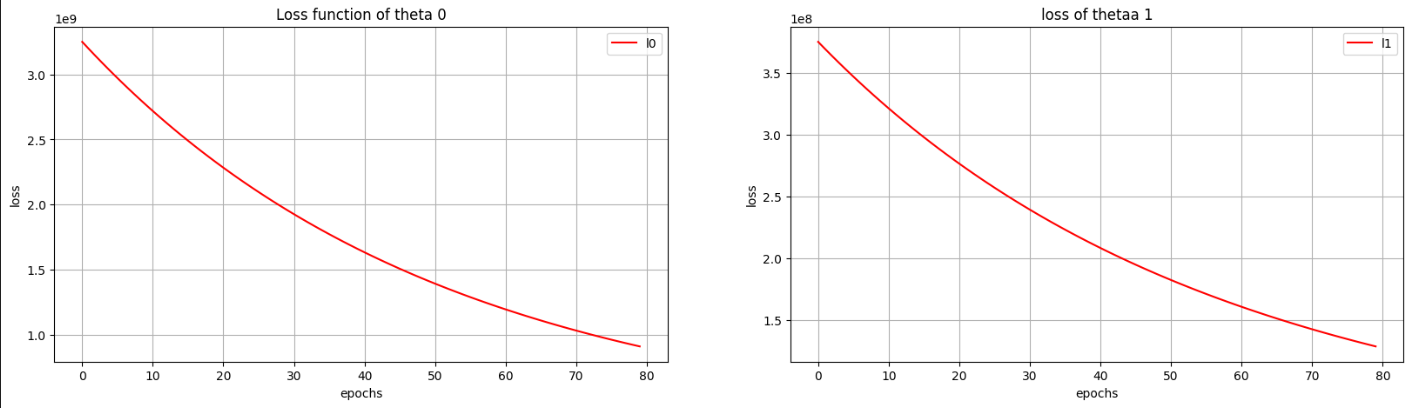
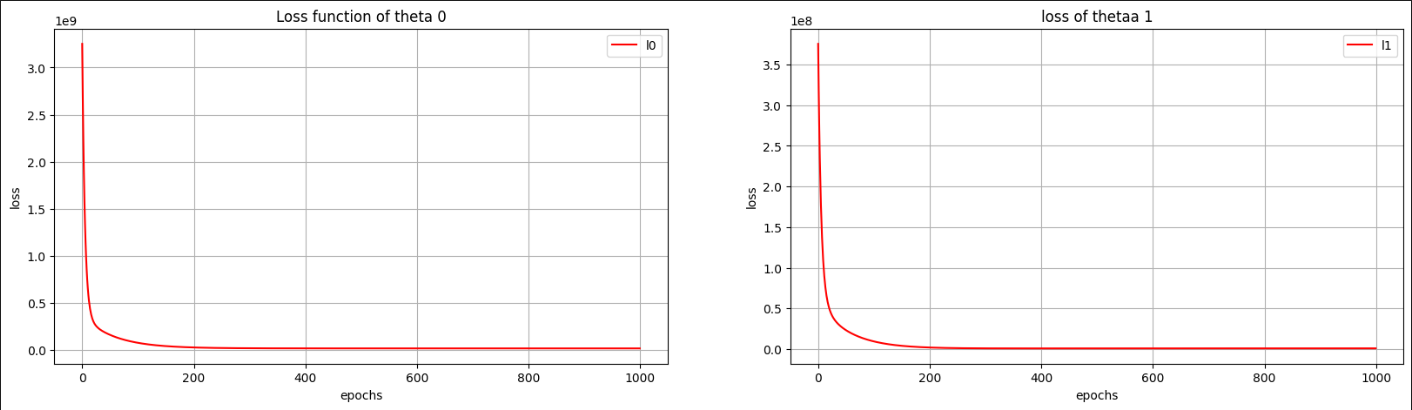
Updated files
Made changes to code file and plotted the graphs for alternate method of implementation

diff --git a/README.md b/README.md
@@ -32,9 +32,7 @@ where &alpha; is the learnning rate
 > The code runs on WSL(Windows Subsystem for Linux) &therefore; the directory structure is based on WSL (/mnt/c/...)
 >I have used the salary dataset from kaggle
 >
->Here are the [graphs](https://github.com/tkC0ding/LinearRegression/blob/main/Graphs/LR.png)
-
->Here are the [graphs](https://github.com/tkC0ding/LinearRegression/blob/main/Graphs/loss.png) of loss function
+>Here are the [graphs](https://github.com/tkC0ding/LinearRegression/blob/main/Graphs/)
 
 
 - To run the code on your system, it is required to install WSL on your system as the directory structure used in the project is WSL
